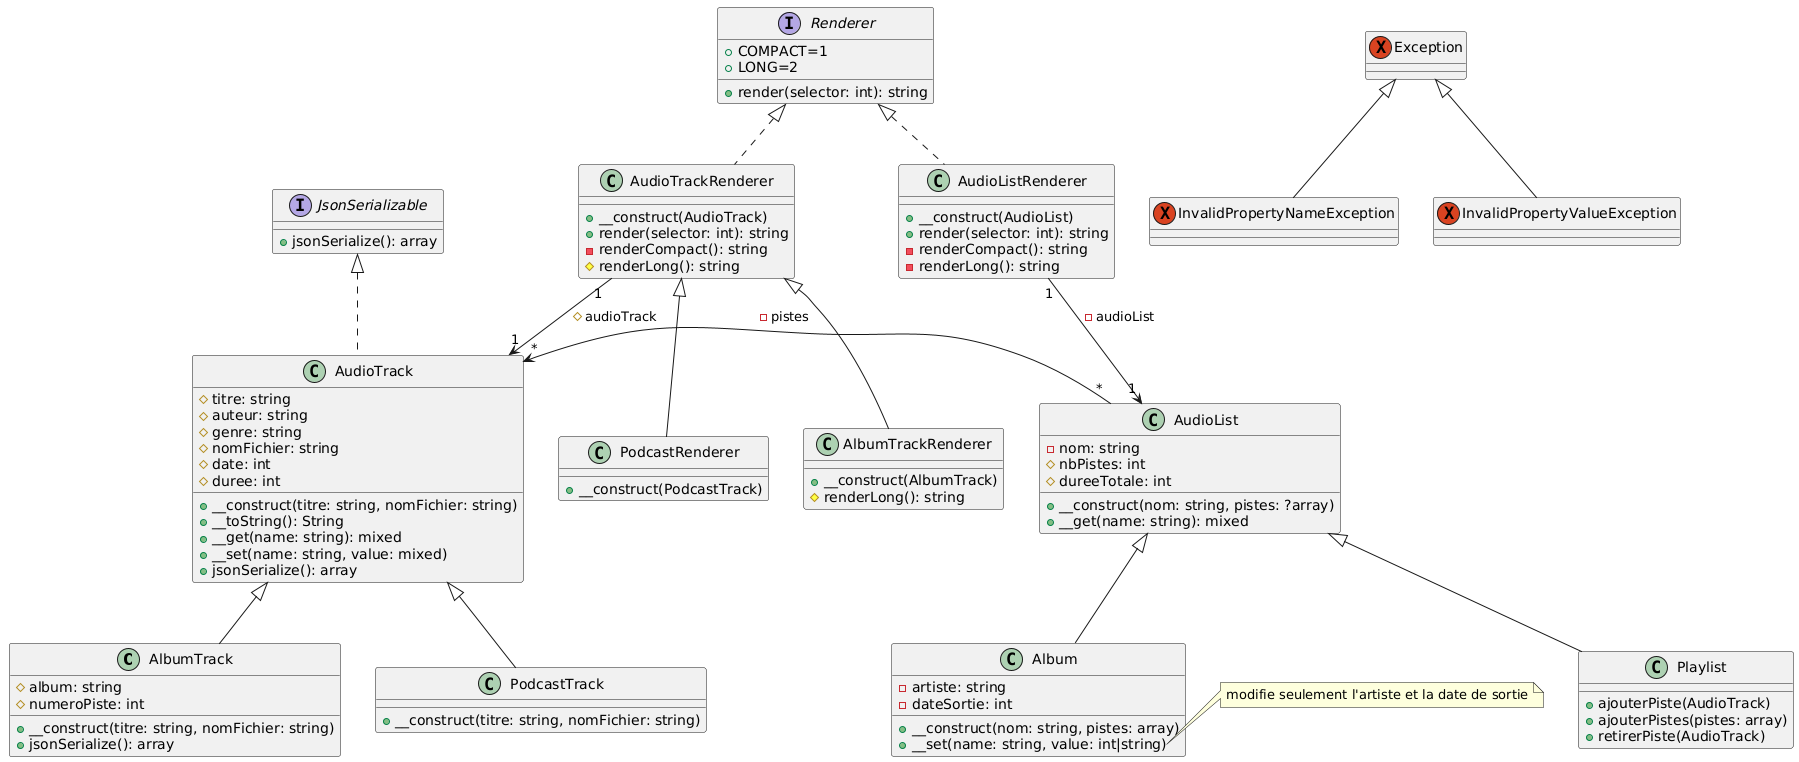
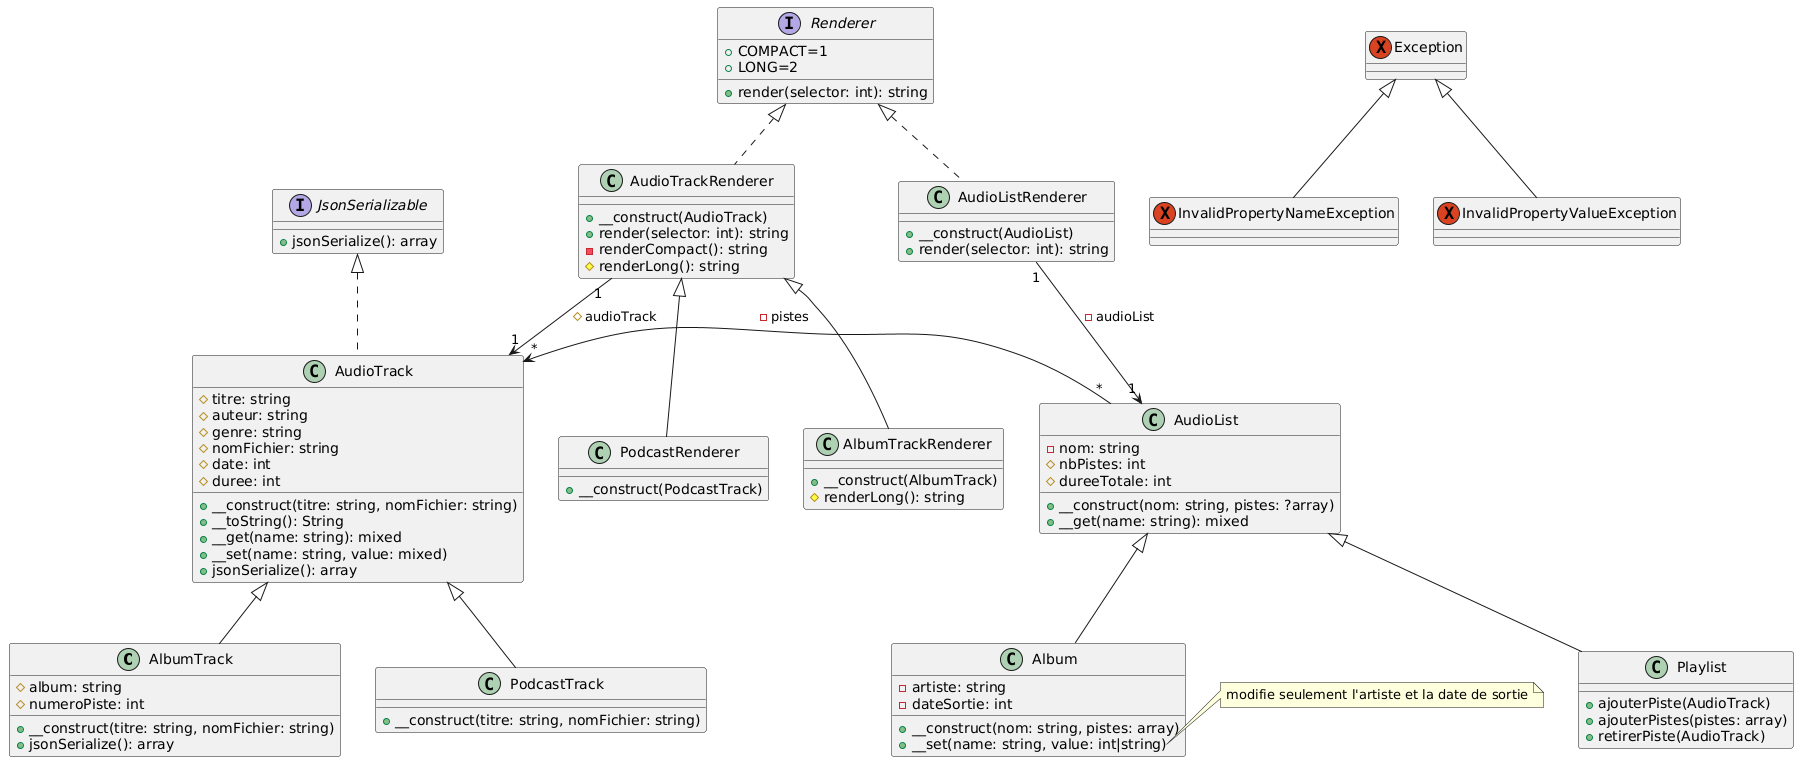
td5.4 ajoute AudioListRenderer et modifie son diagramme de classe

Changed region(s): [[0.4981, 0.2113, 0.6226, 0.3622]]

diff --git a/AudioListRenderer.php b/AudioListRenderer.php
@@ -1,0 +1,25 @@
+<?php
+declare(strict_types=1);
+require_once "AudioTrack.php";
+require_once "PodcastTrack.php";
+require_once "AlbumTrack.php";
+require_once "AudioTrackRenderer.php";
+require_once "Renderer.php";
+
+class AudioTrackRenderer implements Renderer {
+    protected AudioList $audioList;
+
+    public function __construct(AudioList $audioList) {
+        $this->audioList = $audioList;
+    }
+
+    public function render(int $selector): string {
+        $res = "";
+        foreach ($audioList->pistes as $audioTrack) {
+            $renderer = new AudioTrackRenderer($audioTrack);
+            $res .= $renderer->render($selector);
+        }
+        return $res;
+    }
+}
+?>
